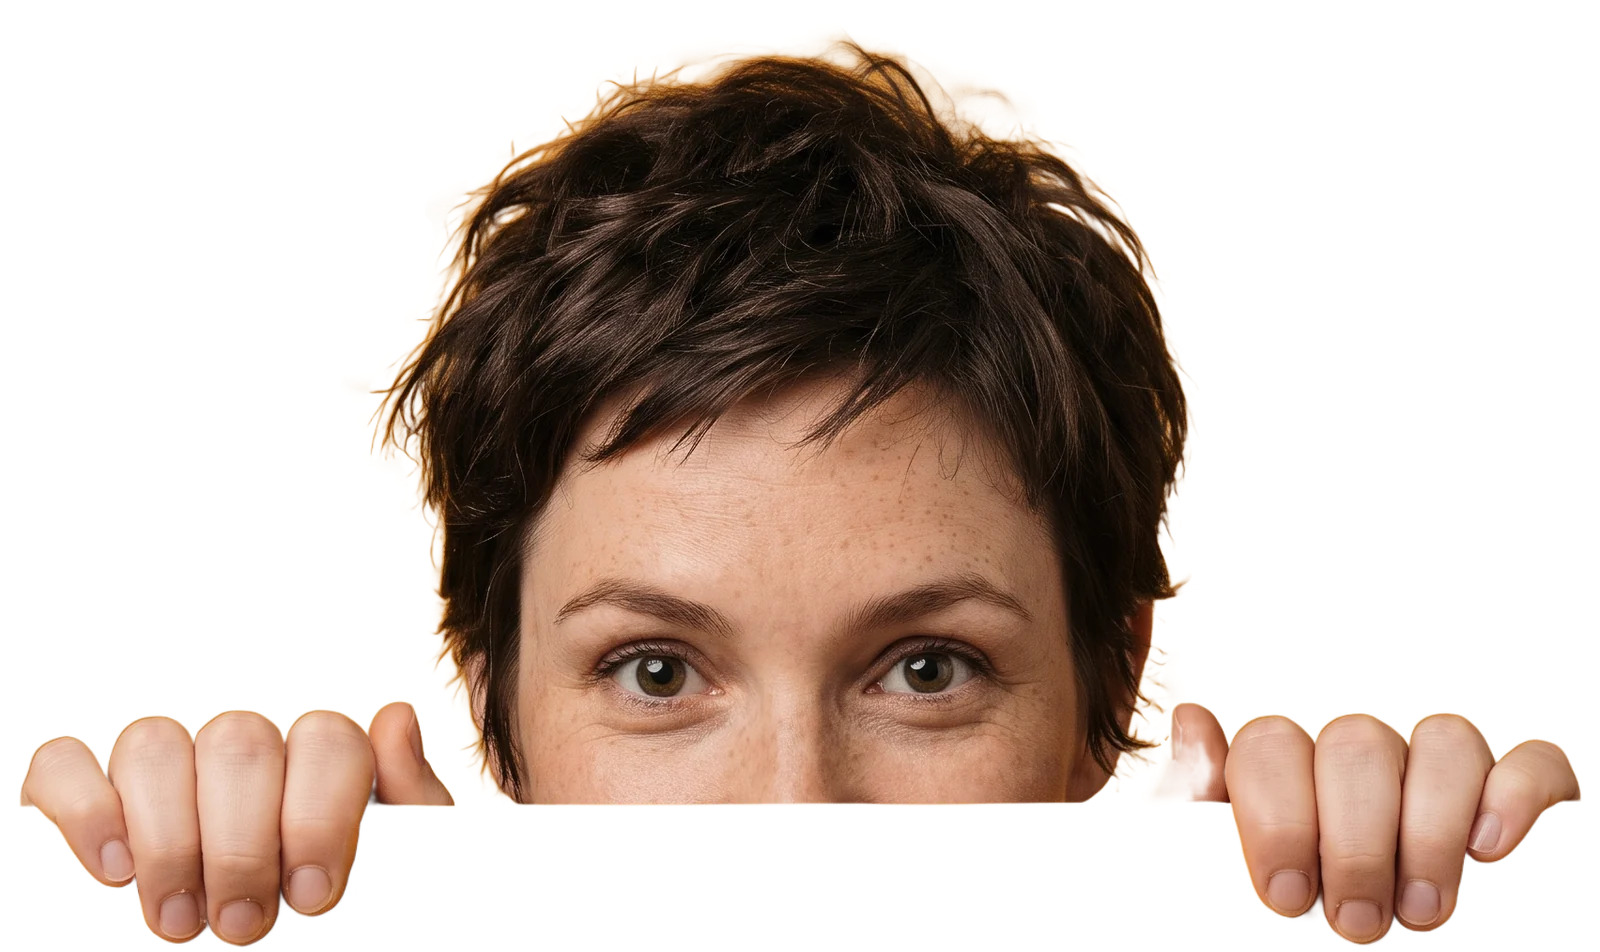
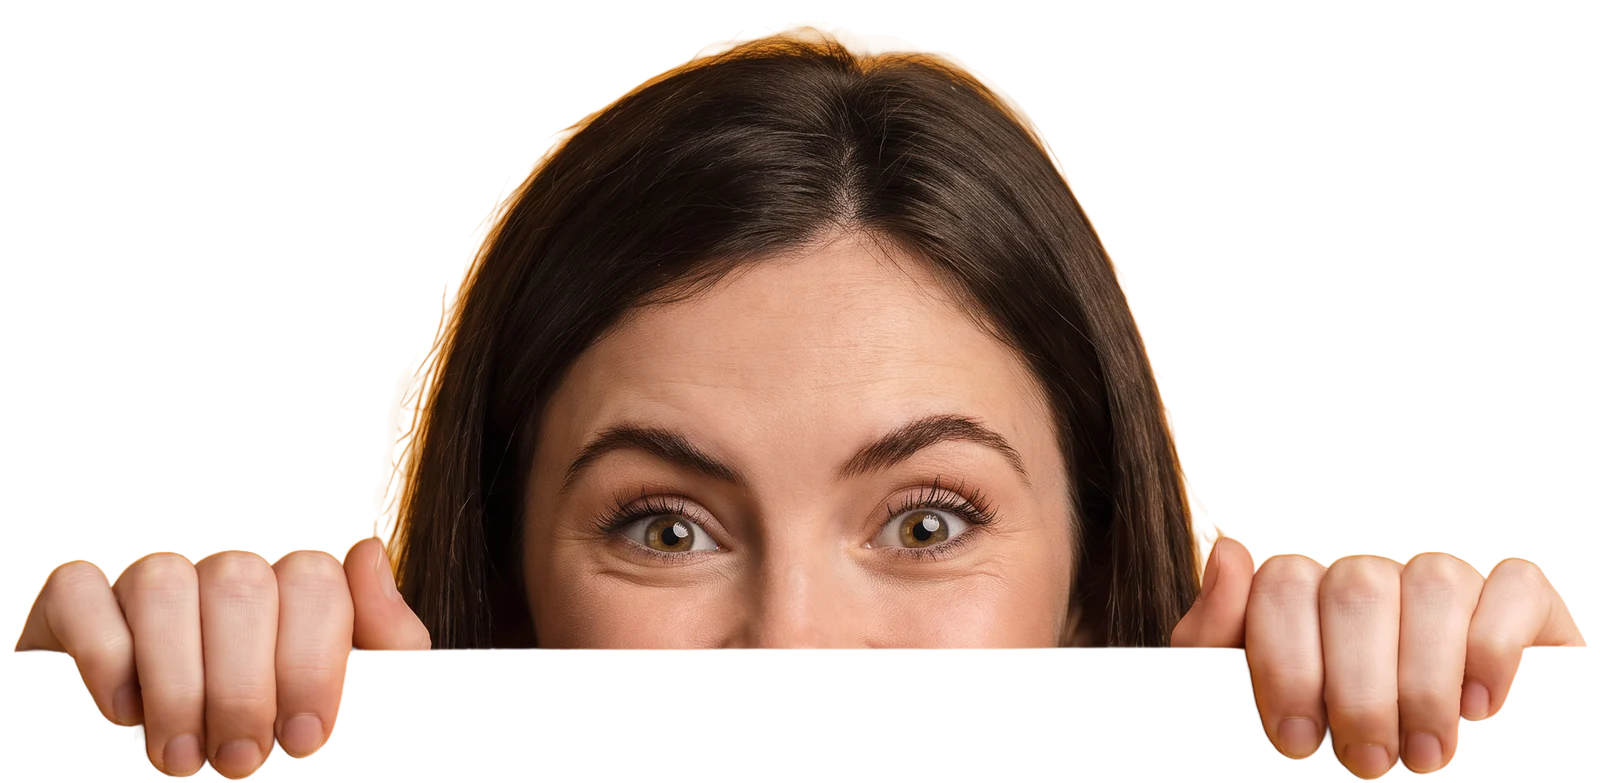
Kopfbereich: Orange F89500 mit Verlaeufen, Mauer, Person rechts haengend, Text wie vorher

diff --git a/stil.css b/stil.css
@@ -5605,47 +5605,60 @@ body .brush.etikett{font-size:clamp(34px,3.8vw,58px)!important}
 /* UID nie am Bindestrich trennen */
 .untrennbar{white-space:nowrap}
 
-/* ══ Kopfbereich Amber (Referenz des Auftraggebers, 21.11.2026) ═════════════
-   Ersetzt das dunkle Portraet mit Schaerfe-Effekt. Volle Amber-Flaeche,
-   Titel schwarz links, Text + EIN Knopf rechts, darunter die Riesen-
-   Wortmarke "Klartext." in Creme und eine Person, die von unten knapp
-   ueber die Kante schaut, direkt in die Kamera. Die Kante ist die
-   Unterkante der Buehne; die Haende liegen davor.
-   Fields Display hat im Adobe-Kit keinen Kursivschnitt: die Wortmarke
-   wird per skewX geneigt (keine kuenstliche Kursive des Browsers). */
-/* --u: eine Masseinheit, die mit Breite UND Hoehe skaliert, damit Person
-   und Haende auch auf flachen Bildschirmen im ersten Blick liegen. */
-.buehne.buehne--amber{--u:min(1vw, calc((100svh - 362px) / 39), 18.44px);display:flex;flex-direction:column;max-width:none;margin:0;
-  min-height:100svh;padding:clamp(128px,10.5vw,168px) var(--pad) 0;
-  background:var(--violett);overflow:hidden;align-content:normal}
-.buehne--amber::before{display:none}
+/* ══ Kopfbereich Orange (Auftraggeber, 21.11.2026, zweite Runde) ══════════
+   Orange #F89500 aus seiner Referenz (nicht das Logo-Amber #F5A524), mit
+   Verlaeufen und sehr feinem Korn, damit die Flaeche lebt. Titel mit dem
+   Pinselwort "niemand" (dunkler Strich, helle Schrift), rechts der
+   bisherige Text mit beiden Knoepfen. Unten eine Mauer ueber die ganze
+   Breite; rechts haengt eine Person daran und schaut darueber: nur Stirn,
+   Augen und Haende sind sichtbar. Hinter allem die Riesen-Wortmarke.
+   --u skaliert mit Breite UND Hoehe, damit alles im ersten Blick liegt.
+   Fields Display hat im Adobe-Kit keinen Kursivschnitt: skewX. */
+.buehne.buehne--amber{--orange:#F89500;--u:min(1vw, calc((100svh - 412px) / 40), 18px);
+  display:flex;flex-direction:column;max-width:none;margin:0;position:relative;isolation:isolate;
+  min-height:100svh;padding:clamp(124px,10vw,160px) var(--pad) 0;overflow:hidden;align-content:normal;
+  background:
+    radial-gradient(55% 65% at 8% 0%, rgb(255 190 92 / .95) 0%, rgb(255 190 92 / 0) 72%),
+    radial-gradient(42% 60% at 82% 70%, rgb(255 201 120 / .85) 0%, rgb(255 201 120 / 0) 70%),
+    radial-gradient(60% 55% at 100% 100%, rgb(226 98 0 / .75) 0%, rgb(226 98 0 / 0) 70%),
+    radial-gradient(50% 60% at 0% 100%, rgb(236 112 0 / .55) 0%, rgb(236 112 0 / 0) 70%),
+    var(--orange)}
+.buehne--amber::before{content:"";display:block;position:absolute;inset:0;z-index:-1;
+  background:url(korn-fein.png);opacity:.06;mix-blend-mode:multiply;pointer-events:none}
 .amber__kopf{width:100%;max-width:var(--maxw);margin:0 auto;display:grid;
-  grid-template-columns:minmax(0,1.6fr) minmax(0,1fr);gap:clamp(24px,4vw,72px);align-items:start}
+  grid-template-columns:minmax(0,1.75fr) minmax(0,1fr);gap:clamp(24px,3.4vw,64px);align-items:start}
 .buehne--amber .amber__titel{color:var(--tinte);margin:0;
-  font-size:clamp(40px,5.15vw,82px);line-height:.98;letter-spacing:-.03em}
+  font-size:clamp(40px,4.3vw,72px);line-height:1.02;letter-spacing:-.03em}
 .amber__titel > span{display:block}
-.amber__seite{padding-top:clamp(4px,.9vw,14px)}
-.amber__text{color:var(--tinte);font-size:clamp(17px,1.45vw,23px);line-height:1.45;
-  margin:0 0 clamp(18px,1.8vw,28px);max-width:30em}
+.buehne--amber h1 .amber__wortbild{background-image:url(bilder/marker-dunkel.webp)}
+.amber__seite{padding-top:clamp(4px,.6vw,10px)}
+.buehne--amber .amber__text{color:var(--tinte);font-size:clamp(16px,1.12vw,18.5px);line-height:1.55;
+  margin:0 0 clamp(16px,1.6vw,24px);max-width:34em}
 .buehne--amber .knopf--dunkel{background:var(--tinte);color:var(--creme)}
 .buehne--amber .knopf--dunkel .rolle,.buehne--amber .knopf--dunkel .rolle span{color:var(--creme)}
-.amber__knopf{display:inline-flex;align-items:center;gap:.6em}
-.amber__knopf svg{flex:none}
-.amber__buehne{position:relative;width:100%;margin-top:auto;
-  height:max(300px, calc(var(--u) * 39))}
-.amber__wort{position:absolute;left:50%;bottom:calc(var(--u) * 20.6);z-index:1;
+.buehne--amber .amber__kreis{background:#FBF8F1;color:var(--tinte);border-color:#FBF8F1}
+.amber__buehne{position:relative;width:100%;margin-top:auto;height:max(300px, calc(var(--u) * 40))}
+.amber__wort{position:absolute;left:50%;bottom:calc(var(--u) * 21);z-index:1;
   transform:translateX(-50%) skewX(-10deg);
   font-family:var(--titel);font-weight:700;font-size:calc(var(--u) * 23);line-height:.74;
-  letter-spacing:-.045em;color:#FBF8F1;white-space:nowrap;pointer-events:none;user-select:none}
-.amber__person{position:absolute;left:50%;bottom:0;z-index:2;display:block;
-  width:calc(var(--u) * 50.4);height:auto;transform:translateX(-50%);
-  filter:drop-shadow(0 6px 10px rgb(120 60 0 / .18))}
+  letter-spacing:-.045em;color:#FBF8F1;white-space:nowrap;pointer-events:none;user-select:none;
+  text-shadow:0 calc(var(--u) * .6) calc(var(--u) * 2.4) rgb(150 60 0 / .18)}
+/* Mauer: obere Kante als helle Flaeche, darunter die Front mit Verlauf. */
+.amber__mauer{position:absolute;z-index:2;bottom:0;left:calc(-1 * var(--pad));right:calc(-1 * var(--pad));
+  height:calc(var(--u) * 8.5);
+  background:linear-gradient(180deg,#FFB547 0,#FFB547 calc(var(--u) * .55),#F28A00 calc(var(--u) * .6),#E57400 100%);
+  box-shadow:0 calc(var(--u) * -.4) calc(var(--u) * 1.6) rgb(150 60 0 / .16)}
+/* Person: Kante im Bild bei 82,8 % der Hoehe; Bildhoehe = 0,4895 x Breite.
+   Unterkante so gesetzt, dass die Bildkante auf der Mauerkrone liegt. */
+.amber__person{position:absolute;z-index:3;display:block;height:auto;
+  width:calc(var(--u) * 50);right:calc(var(--u) * 4);
+  bottom:calc(var(--u) * (8.5 - 50 * .4895 * .172));
+  filter:drop-shadow(0 calc(var(--u) * .5) calc(var(--u) * .9) rgb(120 50 0 / .22))}
 @media (max-width:820px){
+  .buehne.buehne--amber{min-height:auto;--u:1.6vw}
   .amber__kopf{grid-template-columns:1fr;gap:18px}
   .buehne--amber .amber__titel{font-size:clamp(38px,10.5vw,64px)}
-  .buehne.buehne--amber{min-height:auto}
-  .amber__text br{display:none}
-  .amber__buehne{height:57vw;margin-top:clamp(28px,8vw,48px)}
-  .amber__person{width:88vw}
-  .amber__wort{font-size:23.5vw;bottom:35vw}
+  .amber__buehne{height:66vw;margin-top:clamp(28px,8vw,48px)}
+  .amber__person{width:62vw;right:2vw}
+  .amber__wort{font-size:23.5vw;bottom:24vw}
 }

diff --git a/index.html b/index.html
@@ -126,18 +126,23 @@ setTimeout(function(){document.documentElement.classList.remove("laedt")},8000)}
     <div class="amber__kopf">
       <h1 class="amber__titel" data-rein-zeilen>
         <span>Kompetenz reicht nicht,</span>
-        <span>wenn sie niemand sieht.</span>
+        <span>wenn sie <em class="wort wort--bild amber__wortbild"><span class="sr">niemand</span><img class="wort__bild" src="marke/niemand-hell.svg" alt="" aria-hidden="true" width="3533" height="783"></em> sieht.</span>
       </h1>
       <div class="amber__seite" data-rein>
-        <p class="amber__text">Branding, Social Media, Website oder Werbung? <br>Wir unterstützen euch: im Abo oder als Projekt.</p>
-        <a class="knopf knopf--dunkel gross amber__knopf" href="#kontakt" data-event="hero_gespraech">
-          <span class="rolle"><span>Gespräch buchen</span><span aria-hidden="true">Gespräch buchen</span></span>
-          <svg viewBox="0 0 24 24" width="22" height="22" aria-hidden="true"><path d="M7 17L17 7M17 7H8M17 7v9" stroke="currentColor" stroke-width="2.2" fill="none" stroke-linecap="round" stroke-linejoin="round"/></svg>
-        </a>
+        <p class="amber__text">Klartext Digital aus Pratteln bringt euer Marketing vorwärts: mit laufenden Leistungen im Abo und klar geplanten Projekten. Für Unternehmen in der Region Basel, im Aargau und in der ganzen Deutschschweiz, die Umsetzung brauchen, und Marketingteams, die Spezialwissen ergänzen wollen.</p>
+        <div class="knopfpaar">
+          <a class="knopf knopf--dunkel gross" href="marketing-abo/" data-event="abo_explore">
+            <span class="rolle"><span>Marketing im Abo</span><span aria-hidden="true">Marketing im Abo</span></span>
+          </a>
+          <a class="kreis amber__kreis" href="projektarbeit/" aria-label="Projektarbeit entdecken">
+            <svg viewBox="0 0 24 24" width="22" height="22"><path d="M7 17L17 7M17 7H8M17 7v9" stroke="currentColor" stroke-width="2.2" fill="none" stroke-linecap="round" stroke-linejoin="round"/></svg>
+          </a>
+        </div>
       </div>
     </div>
     <div class="amber__buehne" aria-hidden="true">
       <span class="amber__wort">Klartext.</span>
+      <span class="amber__mauer"></span>
       <img class="amber__person" src="bilder/kopf-person.png" alt="" fetchpriority="high" decoding="async">
     </div>
   </section>

diff --git a/scripts/build.py b/scripts/build.py
@@ -435,7 +435,7 @@ for source,route in ROUTES.items():
  prefix=posixpath.relpath('.',route_dir or '.')+'/'
  schema_json=json.dumps({'@context':'https://schema.org','@graph':graph},ensure_ascii=False).replace('</','<\\/')
  head=f'''\n<meta name="description" content="{escape(desc,quote=True)}">\n<meta name="robots" content="{robots}">\n<link rel="canonical" href="{canonical}">\n<meta property="og:title" content="{escape(title,quote=True)}">\n<meta property="og:description" content="{escape(desc,quote=True)}">\n<meta property="og:url" content="{canonical}">\n<meta property="og:type" content="website">\n<meta property="og:locale" content="de_CH">\n<meta property="og:image" content="{BASE}marke/favicon-180.png">\n<link rel="stylesheet" href="{prefix}seo.css?v={stempel("seo.css") or ""}">\n<script type="application/ld+json">{schema_json}</script>\n'''
- if route=='':head+='<link rel="preload" as="image" href="bilder/kopf-person-1100.webp" imagesrcset="bilder/kopf-person-700.webp 700w, bilder/kopf-person-1100.webp 1100w, bilder/kopf-person-1600.webp 1600w, bilder/kopf-person-1704.webp 1704w" imagesizes="(max-width: 820px) 88vw, min(50.4vw, 930px)" type="image/webp" fetchpriority="high">\n'
+ if route=='':head+='<link rel="preload" as="image" href="bilder/kopf-person-1100.webp" imagesrcset="bilder/kopf-person-700.webp 700w, bilder/kopf-person-1100.webp 1100w, bilder/kopf-person-1600.webp 1600w, bilder/kopf-person-1912.webp 1912w" imagesizes="(max-width: 820px) 62vw, min(50vw, 900px)" type="image/webp" fetchpriority="high">\n'
  # A real landscape image replaces the tiny app icon in link previews.
  head=head.replace(BASE+'marke/favicon-180.png',preview_image)
  head=head.replace('property="og:type" content="website"','property="og:type" content="'+('article' if is_article else 'website')+'"')
